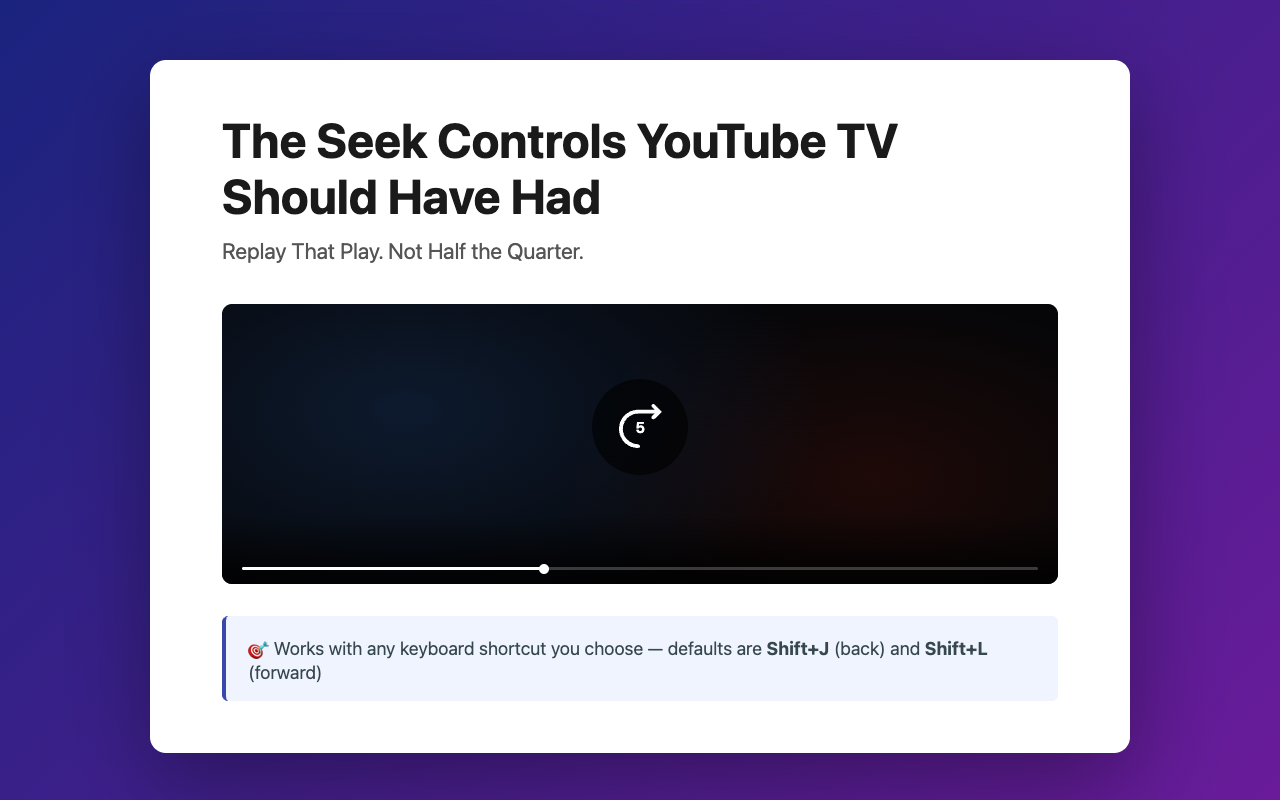
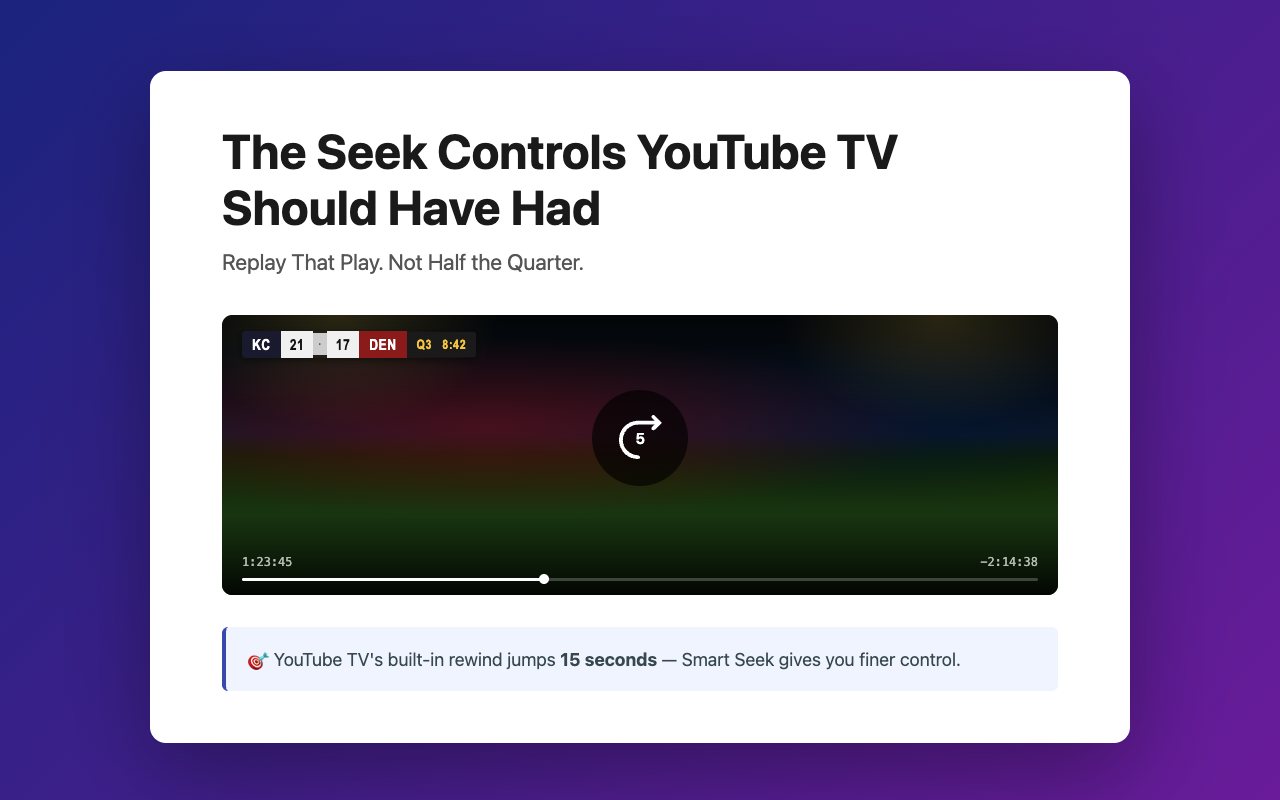
chore: improve store screenshot copy and visuals

diff --git a/store/screenshots/01-osd.html b/store/screenshots/01-osd.html
@@ -49,36 +49,113 @@
     /* ── Mini video player demo ─────────────────────────────────────────── */
 
     .video-demo {
-      background: #0a0a0c;
       border-radius: 10px;
       position: relative;
       height: 280px;
       overflow: hidden;
       margin-bottom: 32px;
-      /* subtle video-like colour blobs */
       background:
-        radial-gradient(ellipse 600px 340px at 22% 38%, #0d1a2e 0%, transparent 70%),
-        radial-gradient(ellipse 480px 280px at 78% 62%, #1e0a08 0%, transparent 65%),
-        #060608;
+        /* Flood lights — faint warm glow at top corners */
+        radial-gradient(ellipse 260px 180px at 14% 0%,  rgba(255,220,70,0.15) 0%, transparent 62%),
+        radial-gradient(ellipse 260px 180px at 86% 0%,  rgba(255,220,70,0.15) 0%, transparent 62%),
+        /* Crowd: muted reds left, muted navy right */
+        radial-gradient(ellipse 700px 140px at 32% 40%, rgba(120,12,22,0.55)  0%, transparent 64%),
+        radial-gradient(ellipse 500px 130px at 78% 38%, rgba(0,20,50,0.60)    0%, transparent 64%),
+        /* Sky → dark grass — everything stays dim */
+        linear-gradient(to bottom,
+          #030508  0%,
+          #070e18 30%,
+          #0b1628 42%,
+          #0d1e08 50%,
+          #122808 58%,
+          #183410 70%,
+          #1a3a12 100%
+        );
     }
+
 
     /* gradient overlay at bottom */
     .video-demo::after {
       content: '';
       position: absolute;
       bottom: 0; left: 0; right: 0;
-      height: 70px;
-      background: linear-gradient(to top, rgba(0,0,0,0.85) 0%, transparent 100%);
+      height: 80px;
+      background: linear-gradient(to top, rgba(0,0,0,0.9) 0%, transparent 100%);
+      z-index: 1;
     }
 
-    /* progress bar */
+    /* ── Score bug ───────────────────────────────────────────────────────── */
+
+    .score-bug {
+      position: absolute;
+      top: 16px;
+      left: 20px;
+      display: flex;
+      align-items: center;
+      gap: 0;
+      font-family: "Arial Narrow", Arial, sans-serif;
+      font-size: 15px;
+      font-weight: 700;
+      z-index: 5;
+      border-radius: 4px;
+      overflow: hidden;
+      box-shadow: 0 2px 8px rgba(0,0,0,0.5);
+      letter-spacing: 0.03em;
+    }
+
+    .score-team {
+      background: #1a1a2e;
+      color: #fff;
+      padding: 5px 10px;
+    }
+
+    .score-team.away { background: #8b1a1a; }
+
+    .score-val {
+      background: #f0f0f0;
+      color: #111;
+      padding: 5px 9px;
+      min-width: 28px;
+      text-align: center;
+    }
+
+    .score-divider {
+      background: #ccc;
+      color: #555;
+      padding: 5px 5px;
+      font-size: 11px;
+    }
+
+    .score-clock {
+      background: #1a1a1a;
+      color: #f5c542;
+      padding: 5px 10px;
+      font-size: 13px;
+      letter-spacing: 0.05em;
+    }
+
+    /* ── Broadcast time ──────────────────────────────────────────────────── */
+
+    .time-left, .time-total {
+      position: absolute;
+      bottom: 26px;
+      font-size: 12px;
+      color: rgba(255,255,255,0.7);
+      z-index: 4;
+      font-family: "SF Mono", "Consolas", monospace;
+    }
+    .time-left  { left: 20px; }
+    .time-total { right: 20px; }
+
+    /* ── Progress bar ───────────────────────────────────────────────────── */
+
     .progress {
       position: absolute;
       bottom: 14px; left: 20px; right: 20px;
       height: 3px;
       background: rgba(255,255,255,0.22);
       border-radius: 2px;
-      z-index: 2;
+      z-index: 3;
     }
     .progress-fill {
       position: absolute;
@@ -96,13 +173,14 @@
       border-radius: 50%;
     }
 
-    /* OSD indicator centred in the video area */
+    /* ── OSD indicator ───────────────────────────────────────────────────── */
+
     .osd {
       position: absolute;
       top: 44%;
       left: 50%;
       transform: translate(-50%, -50%);
-      z-index: 3;
+      z-index: 4;
     }
 
     .osd-ring {
@@ -120,7 +198,6 @@
       width: 46px; height: 46px;
       fill: #fff;
       display: block;
-      /* forward = mirror */
       transform: scaleX(-1);
     }
 
@@ -135,7 +212,7 @@
       font-weight: 700;
     }
 
-    /* ── Feature note ───────────────────────────────────────────────────── */
+    /* ── Feature note ────────────────────────────────────────────────────── */
 
     .feature-note {
       background: #f0f4ff;
@@ -153,7 +230,18 @@
     <p class="tagline">Replay That Play. Not Half the Quarter.</p>
 
     <div class="video-demo">
-      <!-- Seek-forward OSD -->
+
+      <!-- Score bug -->
+      <div class="score-bug">
+        <span class="score-team">KC</span>
+        <span class="score-val">21</span>
+        <span class="score-divider">·</span>
+        <span class="score-val">17</span>
+        <span class="score-team away">DEN</span>
+        <span class="score-clock">Q3 &nbsp;8:42</span>
+      </div>
+
+      <!-- Seek OSD -->
       <div class="osd">
         <div class="osd-ring">
           <svg viewBox="0 0 24 24" aria-hidden="true">
@@ -165,15 +253,20 @@
         </div>
       </div>
 
+      <!-- Time readouts -->
+      <span class="time-left">1:23:45</span>
+      <span class="time-total">-2:14:38</span>
+
       <!-- Progress bar -->
       <div class="progress">
         <div class="progress-fill"></div>
         <div class="progress-thumb"></div>
       </div>
+
     </div>
 
     <div class="feature-note">
-      🎯 Works with any keyboard shortcut you choose — defaults are <strong>Shift+J</strong> (back) and <strong>Shift+L</strong> (forward)
+      🎯 YouTube TV's built-in rewind jumps <strong>15 seconds</strong> — Smart Seek gives you finer control.
     </div>
   </div>
 </body>

diff --git a/store/screenshots/03-options.html b/store/screenshots/03-options.html
@@ -92,7 +92,7 @@
 <body>
   <div class="card">
     <h1>Built For How You Watch</h1>
-    <p class="tagline">Two keys cover everything — and every detail is yours to configure</p>
+    <p class="tagline">Two keys. Every use case covered.</p>
 
     <div class="use-case">
       <div class="use-case-title">
@@ -124,15 +124,6 @@
       </div>
     </div>
 
-    <div class="use-case">
-      <div class="use-case-title">
-        <span>⚙</span>
-        <span>Make it yours</span>
-      </div>
-      <div class="use-case-body">
-        Change the seek amount from 0.1 to 300 seconds. Remap to any key. Open Settings from the popup — done in seconds.
-      </div>
-    </div>
   </div>
 </body>
 </html>

diff --git a/store/screenshots/04-small-promo.html b/store/screenshots/04-small-promo.html
@@ -70,9 +70,9 @@
   <div class="title">Smart Seek</div>
   <div class="tagline">Configurable seek controls for YouTube TV</div>
   <div class="keys">
-    <kbd>Shift+J</kbd>
-    <span class="arrow">← 5 s →</span>
-    <kbd>Shift+L</kbd>
+    <kbd>Shift+←</kbd>
+    <span class="arrow">· 5 s ·</span>
+    <kbd>Shift+→</kbd>
   </div>
 </body>
 </html>

diff --git a/store/screenshots/02-popup.html b/store/screenshots/02-popup.html
@@ -209,7 +209,7 @@
       </div>
       <div class="feature-item">
         <div class="check">✓</div>
-        <span>Changes apply live — no refresh needed</span>
+        <span>Works on live games, recordings, and on-demand</span>
       </div>
     </div>
   </div>

diff --git a/store/screenshots/05-marquee-promo.html b/store/screenshots/05-marquee-promo.html
@@ -207,7 +207,7 @@
       </div>
       <div class="feature-item">
         <div class="check">✓</div>
-        <span>Changes apply live — no refresh needed</span>
+        <span>Works on live games, recordings, and on-demand</span>
       </div>
     </div>
   </div>
